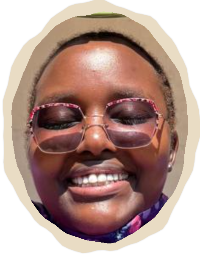
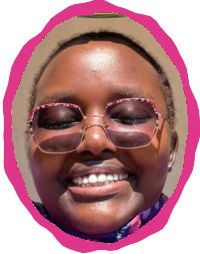
Shorten homepage intro and make Ivy head ring pink

Changed region(s): [[0.0, 0.0, 1.0, 1.0]]

diff --git a/index.html b/index.html
@@ -47,7 +47,7 @@
             <button type="button" class="text-btn hero-word" data-cur="1">Design</button>
           </span>
         </h1>
-        <p class="hero-intro">Multidisciplinary maker across branding, product and code. I like ideas that are useful first and fun immediately after.</p>
+        <p class="hero-intro">I make things useful first, then I make them fun.</p>
       </section>
 
       <section class="work" id="work" aria-labelledby="work-title">
